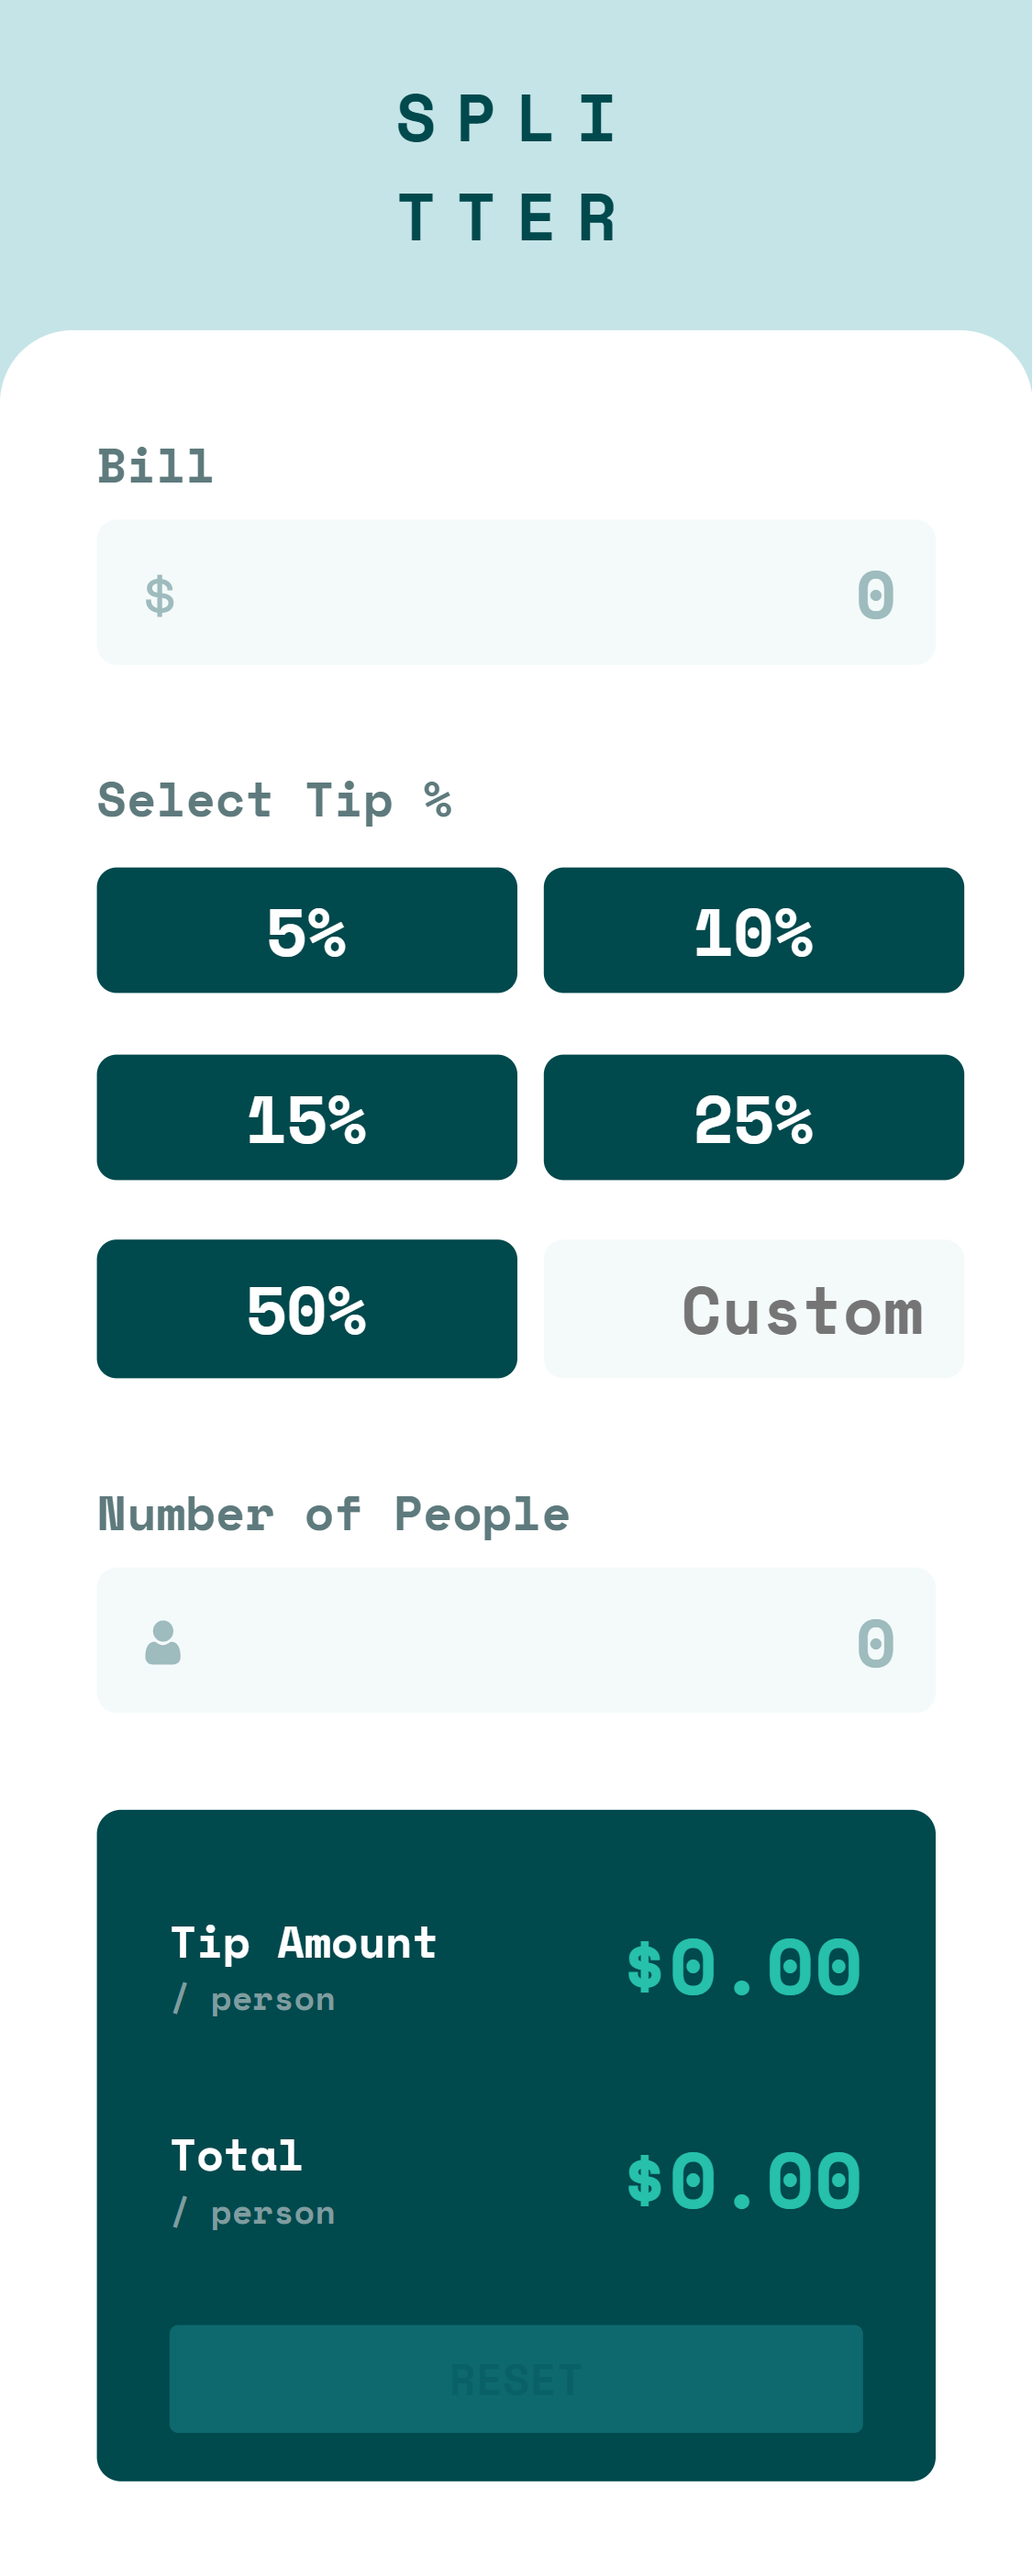
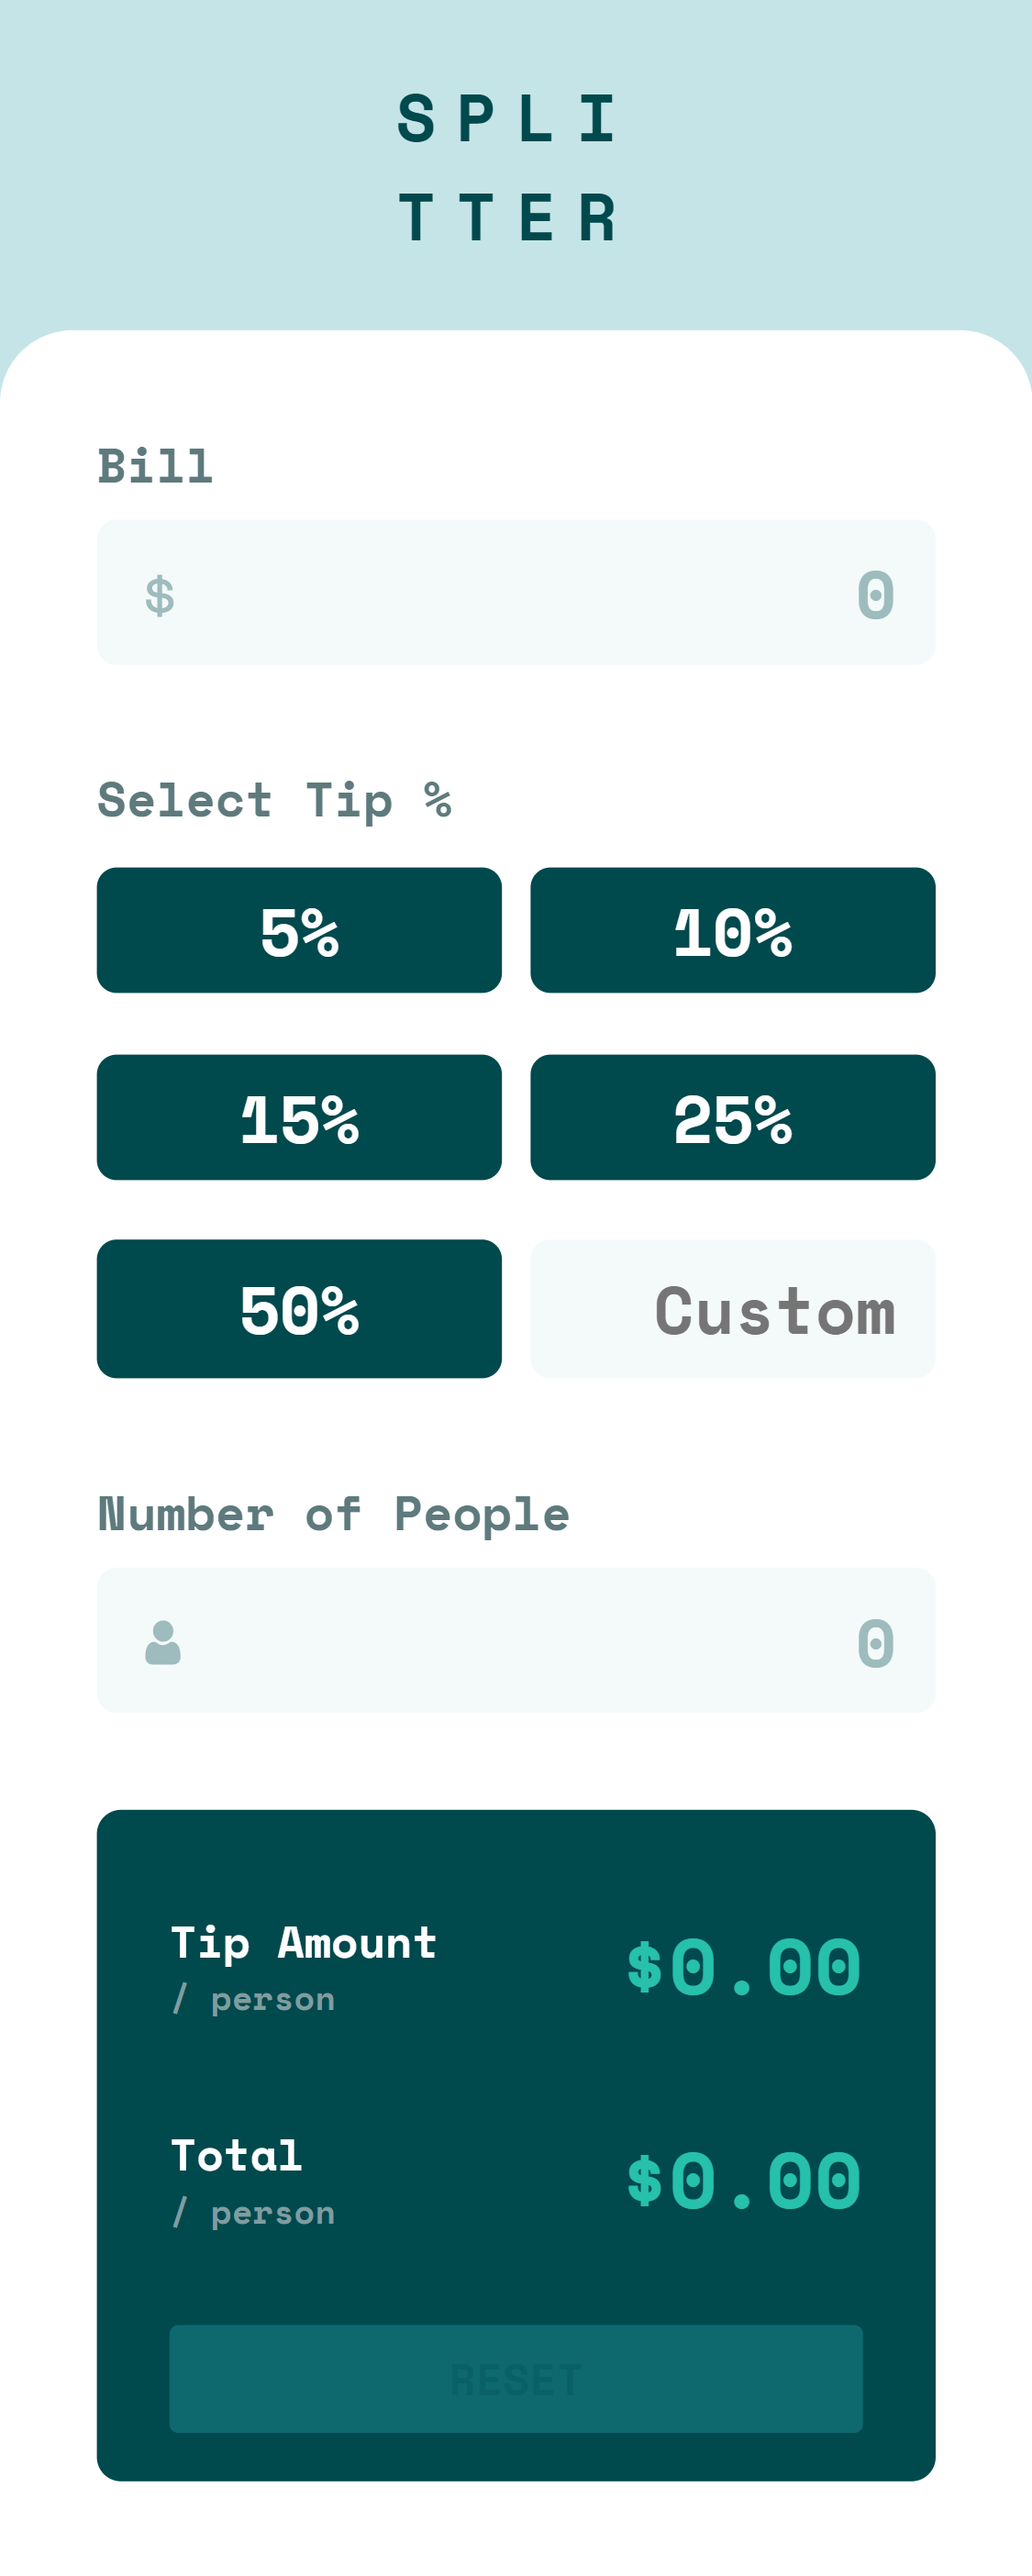
css bug fix

diff --git a/style.css b/style.css
@@ -96,7 +96,7 @@ main {
 
 .btns {
   display: grid;
-  grid-template-columns: 50% 50%;
+  grid-template-columns: repeat(auto-fill, minmax(48%, 1fr));
   grid-gap: 10px;
   position: relative;
 }
@@ -212,13 +212,15 @@ main {
 
   .btns {
     display: grid;
-    grid-template-columns: 33.33% 33.33% 33.33%;
+    grid-template-columns: repeat(auto-fill, minmax(30%, 1fr));
+    grid-gap: 7px;
+    overflow: auto;
   }
 
   .resultsContainer {
     background-color: hsl(183, 100%, 15%);
     margin-top: 0.3em;
-    margin-left: 2em;
+    margin-left: 1em;
     border-radius: 0.5em;
     height: inherit;
   }

diff --git a/index.html b/index.html
@@ -16,11 +16,11 @@
     <title>Tip calculator</title>
   </head>
   <body>
-    <section>
+    <header>
       <div class="titleDiv">
         <p>SPLI<br />TTER</p>
       </div>
-    </section>
+    </header>
     <main>
       <section class="inputContainer">
         <div class="billAmount">
